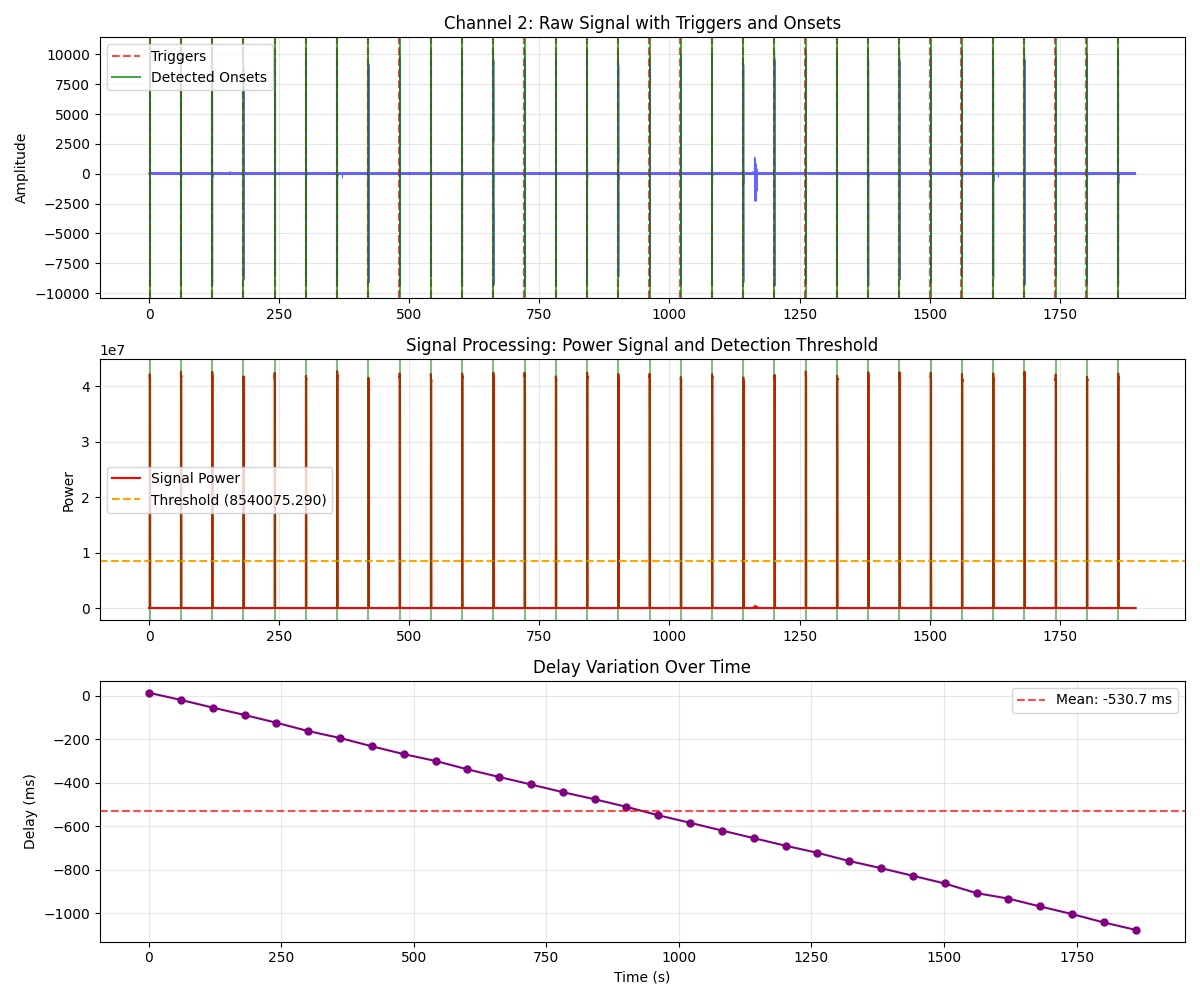
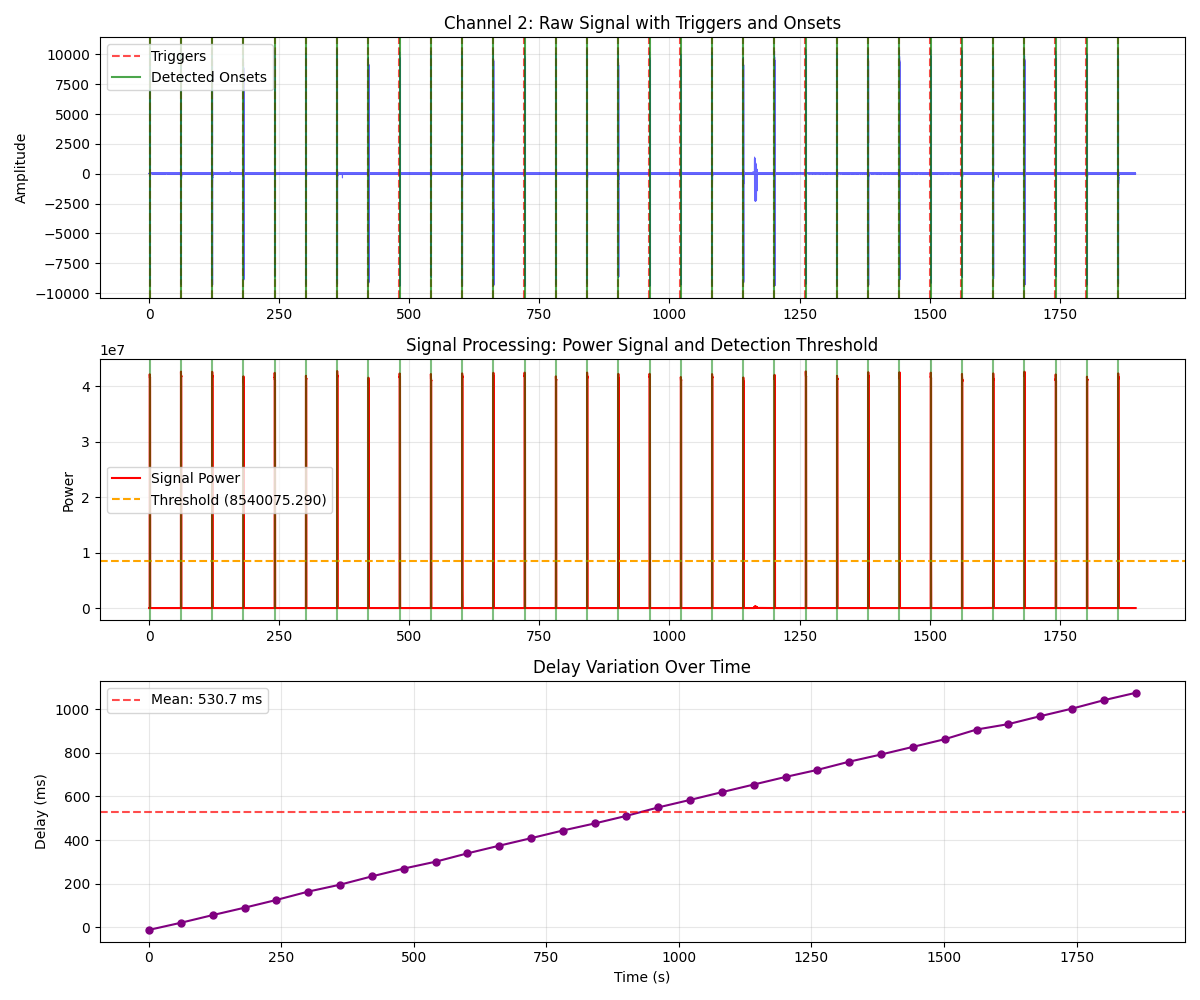
Improve plots.

diff --git a/RT sync testings/sync_analyze_data.py b/RT sync testings/sync_analyze_data.py
@@ -75,7 +75,7 @@ def detect_sin_onsets(data, fs,
                 filtered_onsets.append(onset)
         onset_indices = np.array(filtered_onsets)
 
-    fig, axes = plt.subplots(2, 1, figsize=(12, 6), sharex=True)
+    fig, axes = plt.subplots(2, 1, figsize=(12, 10), sharex=True)
     ax = axes[0]
     ax.plot(np.arange(len(data)) / fs, data, label='Raw Signal', alpha=0.5, linewidth=0.5)
     ax.set_ylabel('Raw Signal Amplitude')
@@ -90,7 +90,6 @@ def detect_sin_onsets(data, fs,
                     label='Detected Onset' if onset == onset_indices[0] else "")
 
     axes[1].plot(onset_indices[:-1] / fs, np.diff(onset_indices) / fs, marker='o', linestyle='-', color='purple')
-    plt.show()
 
     return onset_indices / fs, power_smooth, threshold, data
 
@@ -184,30 +183,30 @@ def analyze_stimulation_delays(file_path, channel_index, threshold_factor=3):
     print(f"  Triggers found: {len(trigger_annot_times)}")
     print(f"  Onsets detected: {len(onset_times)}")
 
-    fig_intervals, axes = plt.subplots(3, 1, figsize=(12, 6), sharex=True)
-    axes[0].plot(trigger_annot_times[:-1], np.diff(onset_times), marker='o', linestyle='-', color='purple')
-    axes[0].set_ylabel('Onset interval (s)')
+    onset_intervals = np.diff(onset_times)
+    trigger_intervals = np.diff(trigger_annot_times)
 
-    axes[1].plot(trigger_annot_times[:-1], np.diff(trigger_annot_times), marker='o', linestyle='-', color='orange')
-    axes[1].set_ylabel('Trigger interval (s)')
+    fig_intervals, axes = plt.subplots(2, 1, figsize=(12, 10), sharex=True)
+    axes[0].plot(trigger_annot_times[:-1], onset_intervals, marker='o', linestyle='-', color='purple', label = 'Onset Intervals')
+    axes[0].plot(trigger_annot_times[:-1], trigger_intervals, marker='o', linestyle='-', color='orange', label='Trigger Intervals')
+    axes[0].set_ylabel('Interval (s)')
+    axes[0].legend()
 
-    axes[2].plot(onset_times, onset_times - trigger_annot_times, marker='o', linestyle='-', color='green',
+    axes[1].plot(trigger_annot_times, onset_times - trigger_annot_times, marker='o', linestyle='-', color='green',
                  label='Onset - Trigger')
-    # axes[2].plot(trigger_annot_times, onset_times, marker='o', linestyle='-', color='green',
-    #              label='Onset Times vs Trigger Times')
-    # axes[2].plot(trigger_annot_times, trigger_annot_times,
-    #              marker='x', linestyle='-', color='blue', alpha=0.5, label='Trigger Times = Onset Times')
-    # axes[2].plot(onset_times, onset_times, marker='x', linestyle='-', color='red', alpha=0.5, label='Onset Times')
-    # axes[2].plot(onset_times, trigger_annot_times, marker='x', linestyle='-', color='blue', alpha=0.5,
-    #              label='Trigger Times')
-    # legend = axes[2].legend()
-    axes[2].set_ylabel('Onset (s)')
-    axes[2].set_xlabel('Trigger (s)')
+    axes[1].set_xlabel('Trigger (s)')
+    axes[1].set_ylabel('Onset - Trigger (s)')
+    # axes[1].plot(trigger_annot_times, onset_times, marker='o', linestyle='-', color='green',
+    #              label='Onset Times')
+    # axes[1].plot(trigger_annot_times, trigger_annot_times,
+    #              marker='x', linestyle='-', color='blue', alpha=0.5, label='Trigger Times ')
+    # axes[1].set_ylabel('(s)')
+    # axes[1].legend()
 
     # Calculate delays
     matched_triggers_annot = trigger_annot_times
     matched_onsets = onset_times
-    delays = trigger_annot_times - onset_times
+    delays = onset_times - trigger_annot_times
 
     print(f"  Matched pairs: {len(delays)}")
     print()
@@ -215,6 +214,10 @@ def analyze_stimulation_delays(file_path, channel_index, threshold_factor=3):
     # Statistics
     if len(delays) > 0:
         delays_ms = delays * 1000
+        print(f"Mean intervals [sec]: Onset {np.mean(onset_intervals):.2f} vs Trigger {np.mean(trigger_intervals):.2f}")
+        print(f"Difference between the intervals: {np.mean(onset_intervals - trigger_intervals):.2f} seconds")
+        print(f'Expected delay after 30 pulse/min of stimulation: {np.mean(onset_intervals - trigger_intervals) * 30:.2f} seconds')
+        print(f'--------------------')
         print(f"Delay Statistics:")
         print(f"  Mean: {np.mean(delays_ms):.2f} ± {np.std(delays_ms):.2f} ms")
         print(f"  Median: {np.median(delays_ms):.2f} ms")
@@ -261,7 +264,7 @@ if __name__ == "__main__":
 
     # Save results
     if results_df is not None:
-        output_file = "stimulation_delay_analysis.csv"
+        output_file = "results/stimulation_delay_analysis.csv"
         results_df.to_csv(output_file, index=False)
         print(f"Results saved to: {output_file}")
 
